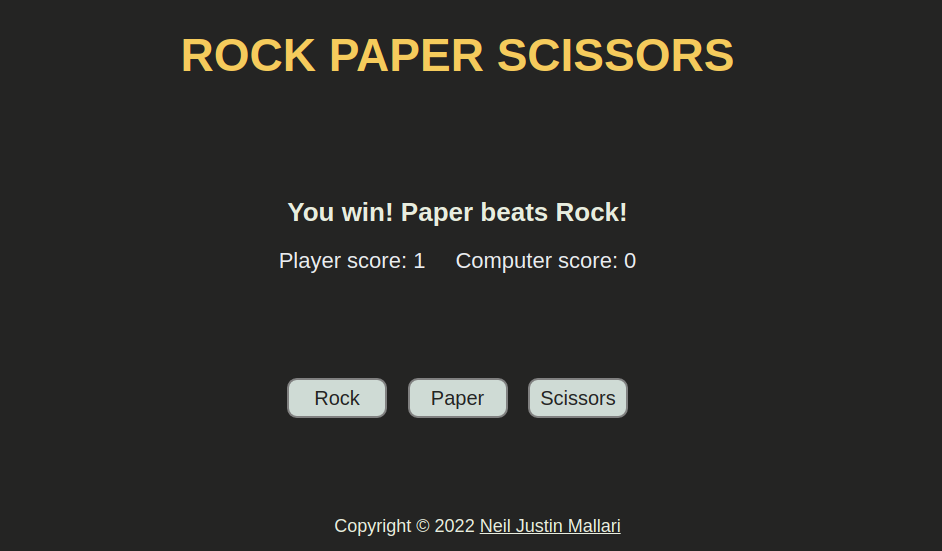
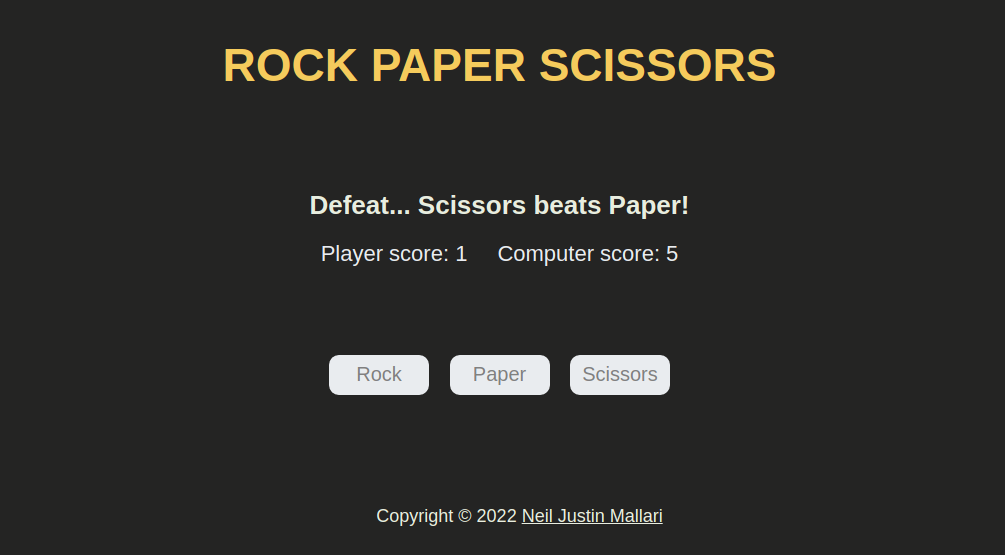
Refactor codebase and edit style.css

diff --git a/main.js b/main.js
@@ -1,80 +1,75 @@
-const playGame = function () {
-    function computerPlay() {
-        const computerChoices = ['Rock', 'Paper', 'Scissors'];
-        const randomIndex = Math.floor(Math.random() * computerChoices.length);
-        return computerChoices[randomIndex];
-    }
-
-    const buttons = document.querySelectorAll('button');
-    const disableButtons = function () {
-        buttons.forEach(button => {
-            button.disabled = true;
-            button.classList.add('disable-button');
-            return;
-        });
-    };
-
-    const resultScoresCntr = document.querySelector('.result-scores-cntr');
-    const resultPara = document.querySelector('.result');
-    resultPara.textContent = 'Choose your weapon!';
-    resultPara.style.cssText = 'font-size: 26px; color: #e8eddf; font-weight: bold; margin: 22px 10px 10px;';
-    resultScoresCntr.appendChild(resultPara);
-    const scoresCntr = document.querySelector('.scores-cntr');
-    const playerScorePara = document.createElement('p');
-    playerScorePara.style.cssText = 'font-size: 22px; color: #e9ecef; margin: 10px 10px 22px;';
-    scoresCntr.appendChild(playerScorePara);
-    const cpuScorePara = document.createElement('p');
-    cpuScorePara.style.cssText = 'font-size: 22px; color: #e9ecef; margin: 10px 10px 22px;';
-    scoresCntr.appendChild(cpuScorePara);
-
-    let playerScore = 0;
-    let cpuScore = 0;
-
-    function playRound(playerSelection, computerSelection) {
-        if ((playerSelection === 'Rock' && computerSelection === 'Scissors') ||
-            (playerSelection === 'Paper' && computerSelection === 'Rock') ||
-            (playerSelection === 'Scissors' && computerSelection === 'Paper')) {
-            playerScore++;
-            return getRoundWinner('player', displayScores());
-        } else if (playerSelection === computerSelection) {
-            return getRoundWinner('none', displayScores());
-        } else {
-            cpuScore++;
-            return getRoundWinner('cpu', displayScores());
-        }
-
-        function getRoundWinner(roundWinner, scores) {
-            if (roundWinner === 'player') {
-                if (playerScore === 5) {
-                    resultPara.textContent = `Victory! ${playerSelection} beats ${computerSelection}!`;
-                    disableButtons();
-                } else {
-                    resultPara.textContent = `You win! ${playerSelection} beats ${computerSelection}!`;
-                }
-            } else if (roundWinner === 'cpu') {
-                if (cpuScore === 5) {
-                    resultPara.textContent = `Defeat... ${computerSelection} beats ${playerSelection}!`;
-                    disableButtons();
-                } else {
-                    resultPara.textContent = `You lose... ${computerSelection} beats ${playerSelection}!`;
-                }
-            } else if (roundWinner === 'none') {
-                resultPara.textContent = `Draw! Both sides used ${playerSelection}!`;
-            }
-
-            return resultPara, scores;
-        }
-
-        function displayScores() {
-            playerScorePara.textContent = `Player score: ${playerScore}`;
-            cpuScorePara.textContent = `Computer score: ${cpuScore}`;
-            return playerScorePara, cpuScorePara;
-        }
-    }
-
-    buttons.forEach(button => {
-        button.addEventListener('click', () => playRound(button.value, computerPlay()));
-    });
+function computerPlay() {
+    const computerChoices = ['Rock', 'Paper', 'Scissors'];
+    const randomIndex = Math.floor(Math.random() * computerChoices.length);
+    return computerChoices[randomIndex];
 }
 
-playGame();
+const buttons = document.querySelectorAll('button');
+const disableButtons = function () {
+    buttons.forEach(button => {
+        button.disabled = true;
+        button.classList.add('disable-button');
+    });
+};
+
+const resultScoresCntr = document.querySelector('.result-scores-cntr');
+const resultPara = document.querySelector('.result');
+resultPara.textContent = 'Choose your weapon!';
+resultPara.style.cssText = 'font-size: 26px; color: #e8eddf; font-weight: bold; margin: 22px 10px 10px;';
+resultScoresCntr.appendChild(resultPara);
+const scoresCntr = document.querySelector('.scores-cntr');
+const playerScorePara = document.createElement('p');
+playerScorePara.style.cssText = 'font-size: 22px; color: #e9ecef; margin: 10px 10px 22px;';
+scoresCntr.appendChild(playerScorePara);
+const cpuScorePara = document.createElement('p');
+cpuScorePara.style.cssText = 'font-size: 22px; color: #e9ecef; margin: 10px 10px 22px;';
+scoresCntr.appendChild(cpuScorePara);
+
+let playerScore = 0;
+let cpuScore = 0;
+
+function playRound(playerSelection, computerSelection) {
+    if ((playerSelection === 'Rock' && computerSelection === 'Scissors') ||
+        (playerSelection === 'Paper' && computerSelection === 'Rock') ||
+        (playerSelection === 'Scissors' && computerSelection === 'Paper')) {
+        playerScore++;
+        return getRoundWinner('player', displayScores());
+    } else if (playerSelection === computerSelection) {
+        return getRoundWinner('none', displayScores());
+    } else {
+        cpuScore++;
+        return getRoundWinner('cpu', displayScores());
+    }
+
+    function getRoundWinner(roundWinner, scores) {
+        if (roundWinner === 'player') {
+            if (playerScore === 5) {
+                resultPara.textContent = `Victory! ${playerSelection} beats ${computerSelection}!`;
+                disableButtons();
+            } else {
+                resultPara.textContent = `You win! ${playerSelection} beats ${computerSelection}!`;
+            }
+        } else if (roundWinner === 'cpu') {
+            if (cpuScore === 5) {
+                resultPara.textContent = `Defeat... ${computerSelection} beats ${playerSelection}!`;
+                disableButtons();
+            } else {
+                resultPara.textContent = `You lose... ${computerSelection} beats ${playerSelection}!`;
+            }
+        } else if (roundWinner === 'none') {
+            resultPara.textContent = `Draw! Both sides used ${playerSelection}!`;
+        }
+
+        return resultPara, scores;
+    }
+}
+
+function displayScores() {
+    playerScorePara.textContent = `Player score: ${playerScore}`;
+    cpuScorePara.textContent = `Computer score: ${cpuScore}`;
+    return playerScorePara, cpuScorePara;
+}
+
+buttons.forEach(button => {
+    button.addEventListener('click', () => playRound(button.value, computerPlay()));
+});

diff --git a/style.css b/style.css
@@ -23,7 +23,7 @@ body {
     font-size: 46px;
     color: #f5cb5c;
     font-weight: bold;
-    margin: 40px 40px 0px;
+    margin: 30px 30px 0px;
 }
 
 .result-scores-cntr {
@@ -72,6 +72,10 @@ button:active {
 
 ul {
     list-style-type: none;
+}
+
+footer {
+    margin: 30px
 }
 
 .footer-text {
